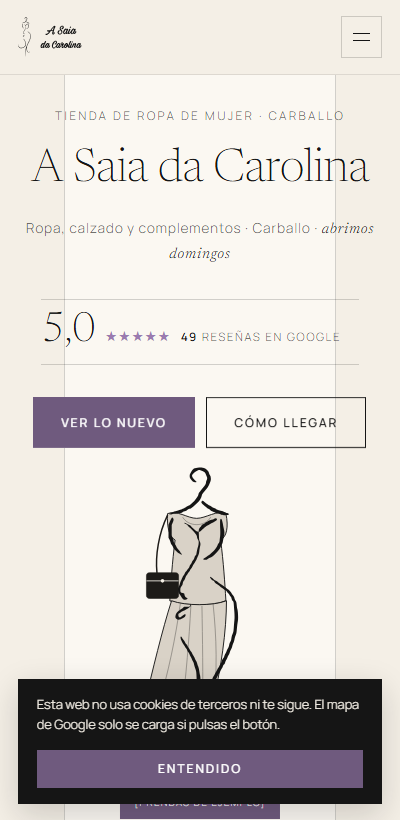
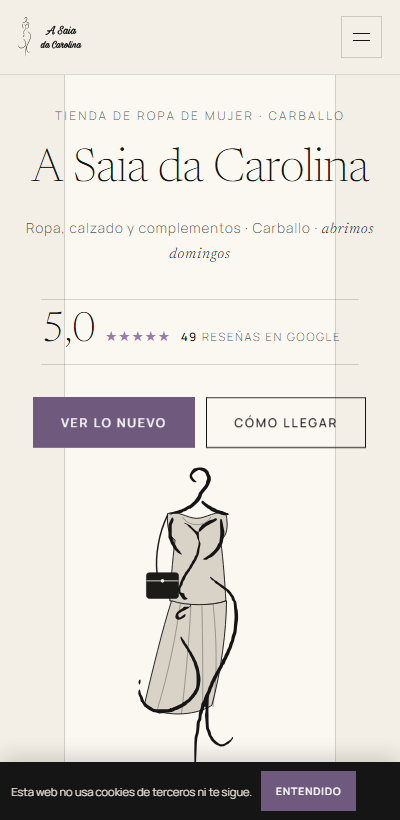
El aviso de cookies deja de tapar el maniquí en el móvil
Caía justo encima de la silueta del hero, que es lo primero que hay que
ver, y la regla de móvil lo ponía en columna, que todavía lo hacía más
alto. Ahora es una franja fina pegada al borde inferior, en una sola
línea. La frase del mapa se oculta por debajo de 620 px porque el
propio recuadro del mapa ya lo explica ahí mismo; la que importa
("no usa cookies de terceros ni te sigue") se queda.

Medido en cuatro anchos: de 130 px de alto a 58 (7-9 % de la pantalla),
una sola línea, y el botón se queda en 95x40, que sigue siendo pulsable
con el dedo. En un iPhone 13 pasa de tapar media silueta a tapar 13 px.

Changed region(s): [[0.0, 0.8232, 1.0, 1.0]]

diff --git a/css/style.css b/css/style.css
@@ -1077,8 +1077,24 @@ button.contacto-pendiente{ text-decoration:underline; text-underline-offset:4px;
 .aviso-cookies:not([hidden]){ display:flex; }
 .aviso-cookies p{ margin:0; font-size:.8rem; line-height:1.5; }
 .aviso-cookies .btn{ flex:none; padding:.6rem 1rem; }
-@media (max-width: 560px){
-  .aviso-cookies{ flex-direction:column; align-items:stretch; text-align:left; }
+/* En el móvil el aviso caía justo encima del maniquí del hero, que es
+   lo primero que hay que ver. En columna todavía ocupaba más. Aquí va
+   como franja fina pegada al borde, en una sola línea: la frase que
+   importa se queda, y la del mapa sobra porque el propio recuadro del
+   mapa ya lo explica ahí mismo. */
+@media (max-width: 620px){
+  .aviso-cookies{
+    left:0; right:0; bottom:0; max-width:none;
+    padding:.55rem .7rem;
+    gap:.6rem;
+    box-shadow:0 -6px 20px rgba(21,21,21,.16);
+  }
+  .aviso-cookies p{ font-size:.7rem; line-height:1.35; }
+  .aviso-extra{ display:none; }
+  .aviso-cookies .btn{
+    padding:.55rem .85rem; min-height:2.5rem;   /* que siga siendo pulsable con el dedo */
+    font-size:.64rem; letter-spacing:.1em;
+  }
 }
 
 /* ---------------------------------------------------------------

diff --git a/index.html b/index.html
@@ -956,7 +956,7 @@
 </dialog>
 
 <div class="aviso-cookies" hidden>
-  <p>Esta web no usa cookies de terceros ni te sigue. El mapa de Google solo se carga si pulsas el botón.</p>
+  <p>Esta web no usa cookies de terceros ni te sigue.<span class="aviso-extra"> El mapa de Google solo se carga si pulsas el botón.</span></p>
   <button type="button" class="cookie-ack btn btn-acento">Entendido</button>
 </div>
 
